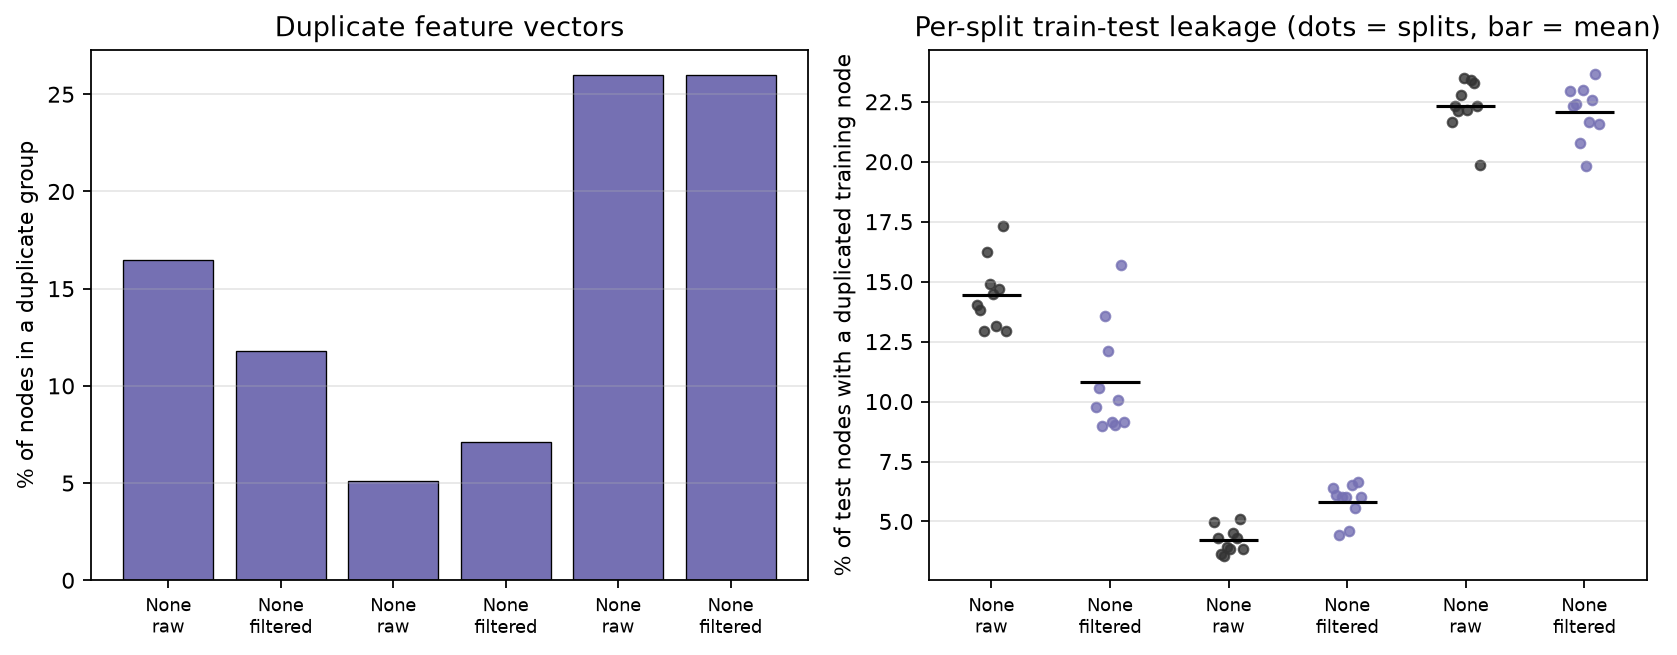
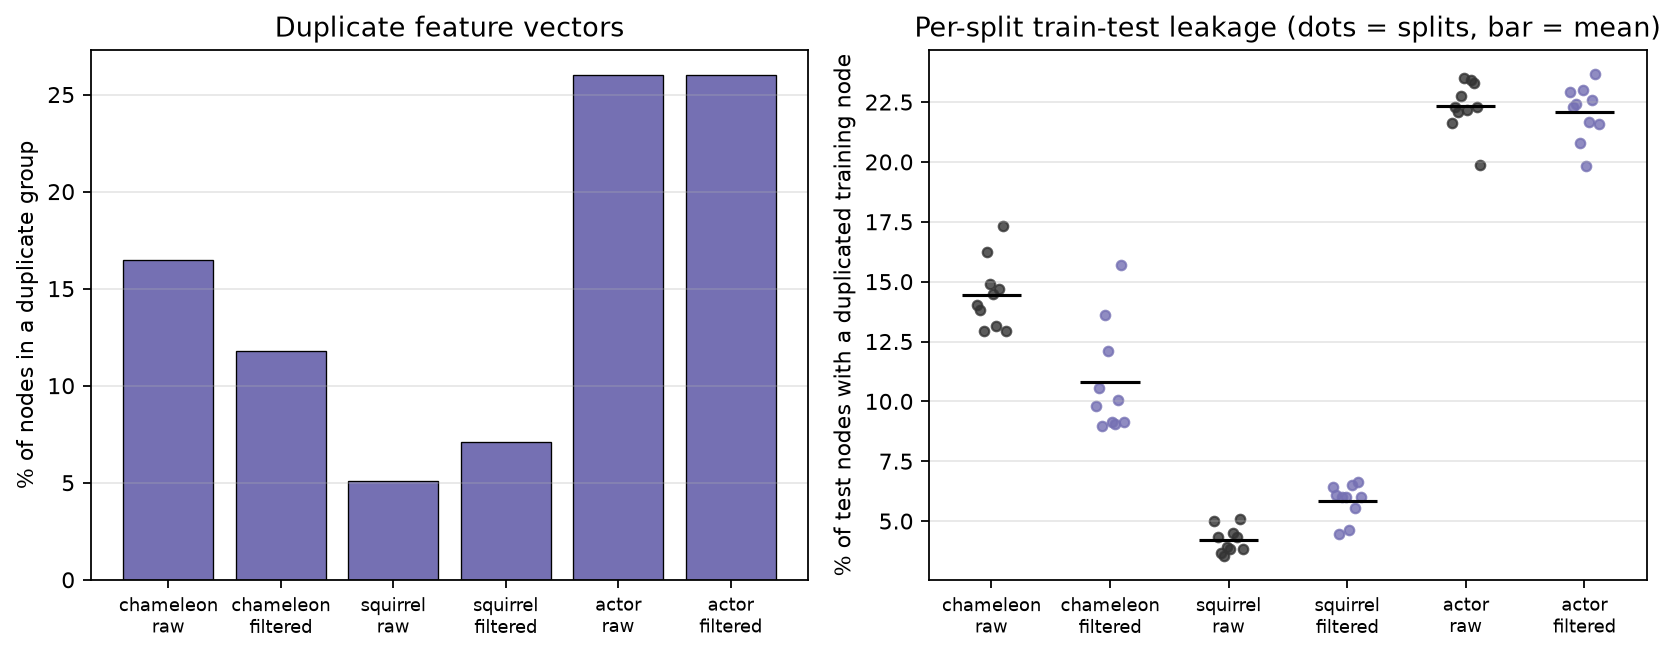
fix(audit): record dataset names and scope the overlap definition

diff --git a/scripts/audit_duplicates.py b/scripts/audit_duplicates.py
@@ -47,7 +47,7 @@ def main(argv: list[str] | None = None) -> int:
     split_rows = []
     for name, mode in conditions:
         data = get_dataset(name, mode, root=args.root, offline=args.offline)
-        audit = audit_dataset(data, tolerance=args.tolerance)
+        audit = audit_dataset(data, tolerance=args.tolerance, name=name)
         record = {"dataset": name, "mode": mode, **audit}
         records.append(record)
         for row in audit["leakage"]:
@@ -68,12 +68,26 @@ def main(argv: list[str] | None = None) -> int:
             "method": {
                 "duplicate_definition": "||x_i - x_j||_2 < tolerance",
                 "tolerance": args.tolerance,
-                "grouping": "exact unique rows followed by a KD-tree radius query",
+                "grouping": (
+                    "exact unique-row grouping when features are integral (the "
+                    "tolerance criterion is then equivalent to exact equality), "
+                    "otherwise blocked Euclidean merging of unique rows"
+                ),
                 "leakage_definition": (
-                    "test node whose duplicate group contains at least one training node"
+                    "train-test feature overlap: a test node whose duplicate feature "
+                    "group contains at least one training node"
                 ),
                 "label_agreement": (
                     "fraction of duplicate nodes in groups whose labels are identical"
+                ),
+                "interpretation_note": (
+                    "Feature overlap is not by itself evidence that a test label can be "
+                    "copied from a training node: this audit does not compare "
+                    "neighbourhoods or regression targets, so it is a different "
+                    "(feature-based) criterion than the duplicate-node definition of "
+                    "Platonov et al. (same regression target and same outgoing "
+                    "neighbourhood). Label agreement among duplicate nodes is reported "
+                    "to bound how often a matching feature vector implies a matching label."
                 ),
             },
             "conditions": records,

diff --git a/tests/test_metrics.py b/tests/test_metrics.py
@@ -2,8 +2,10 @@ import math
 
 import pytest
 import torch
+from torch_geometric.data import Data
 
 from analysis.duplicate_audit import (
+    audit_dataset,
     duplicate_statistics,
     find_duplicate_groups,
     leakage_statistics,
@@ -93,6 +95,21 @@ def test_leakage_statistics_on_known_split():
     assert math.isclose(record["leakage_percentage"], 50.0)
     assert record["crossing_groups"] == 1
     assert record["crossing_groups_with_identical_labels"] == 1
+
+
+def test_audit_dataset_reports_the_dataset_name():
+    data = Data(
+        x=torch.tensor([[1.0, 0.0], [1.0, 0.0], [0.0, 1.0]]),
+        y=torch.tensor([0, 0, 1], dtype=torch.int64),
+        edge_index=torch.tensor([[0, 1], [1, 0]], dtype=torch.int64),
+    )
+    data.train_mask = torch.tensor([[True], [False], [True]])
+    data.val_mask = torch.tensor([[False], [False], [False]])
+    data.test_mask = torch.tensor([[False], [True], [False]])
+    data.metadata = {"dataset": "toy"}
+    audit = audit_dataset(data)
+    assert audit["dataset"] == "toy"
+    assert audit_dataset(data, name="override")["dataset"] == "override"
 
 
 def test_holm_correction_matches_manual_values():

diff --git a/analysis/duplicate_audit.py b/analysis/duplicate_audit.py
@@ -230,15 +230,25 @@ def leakage_statistics(
     return records
 
 
-def audit_dataset(data, tolerance: float = DEFAULT_TOLERANCE) -> dict:
-    """Run the duplicate and leakage audit for all ten splits of one dataset."""
+def audit_dataset(
+    data,
+    tolerance: float = DEFAULT_TOLERANCE,
+    name: str | None = None,
+) -> dict:
+    """Run the duplicate and leakage audit for all ten splits of one dataset.
+
+    ``name`` overrides the dataset label; otherwise ``data.metadata["dataset"]``
+    is used so that the JSON never contains a null dataset name.
+    """
     duplicates = duplicate_statistics(data.x, data.y, tolerance=tolerance)
     leakage = leakage_statistics(
         data.x, data.train_mask, data.test_mask, data.y, tolerance=tolerance
     )
     percentages = [record["leakage_percentage"] for record in leakage]
+    metadata = getattr(data, "metadata", None) or {}
+    dataset_name = name or metadata.get("dataset")
     return {
-        "dataset": getattr(data, "name", None),
+        "dataset": dataset_name,
         "duplicates": duplicates,
         "leakage": leakage,
         "leakage_summary": {
